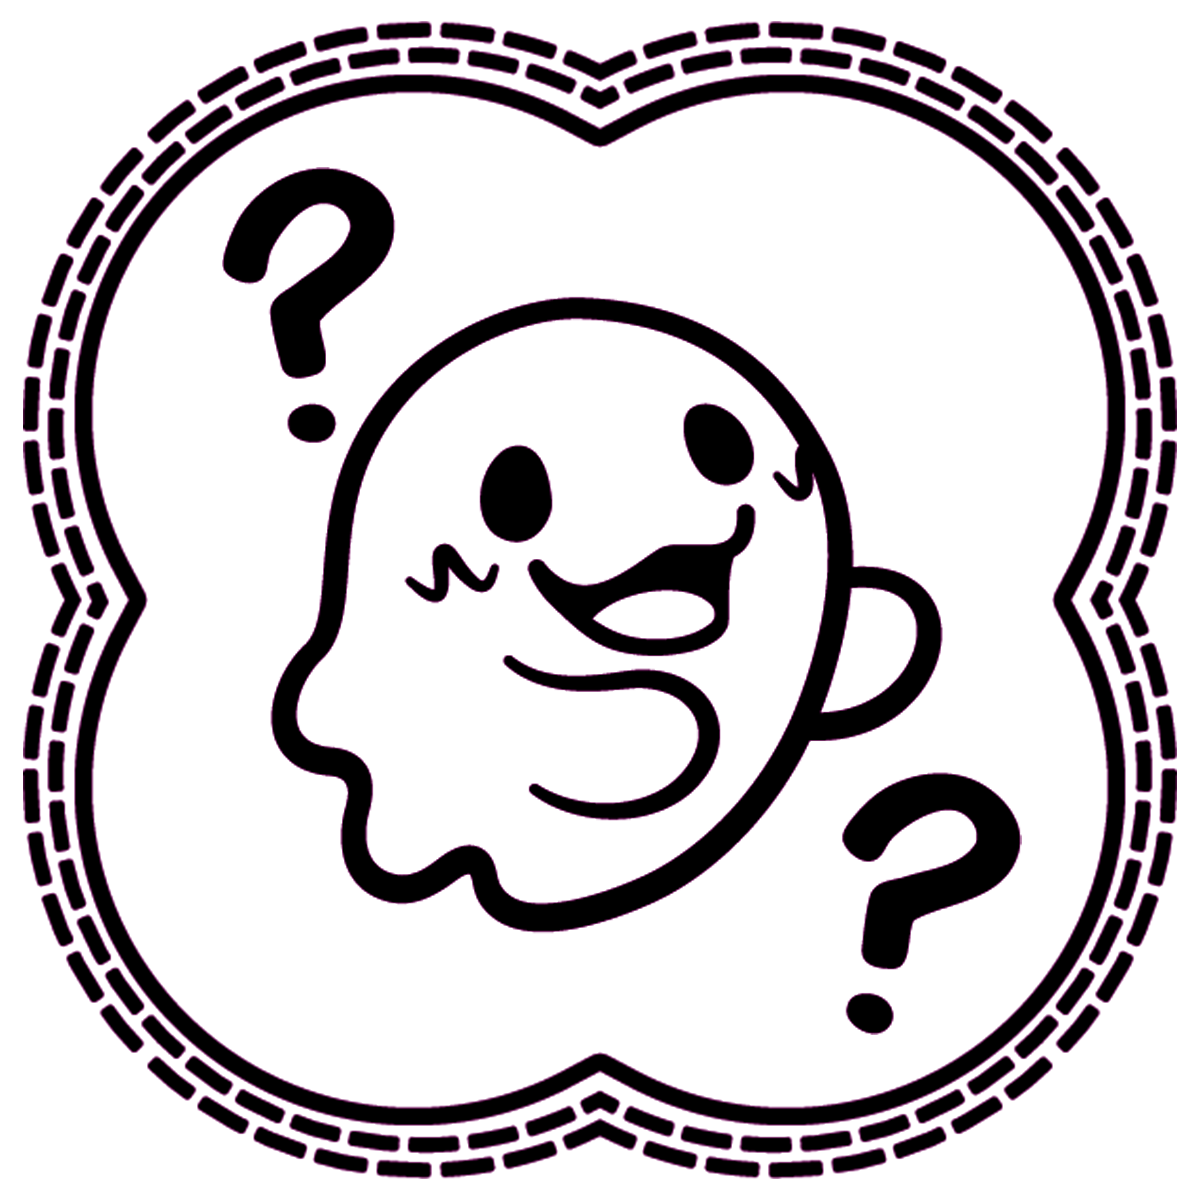
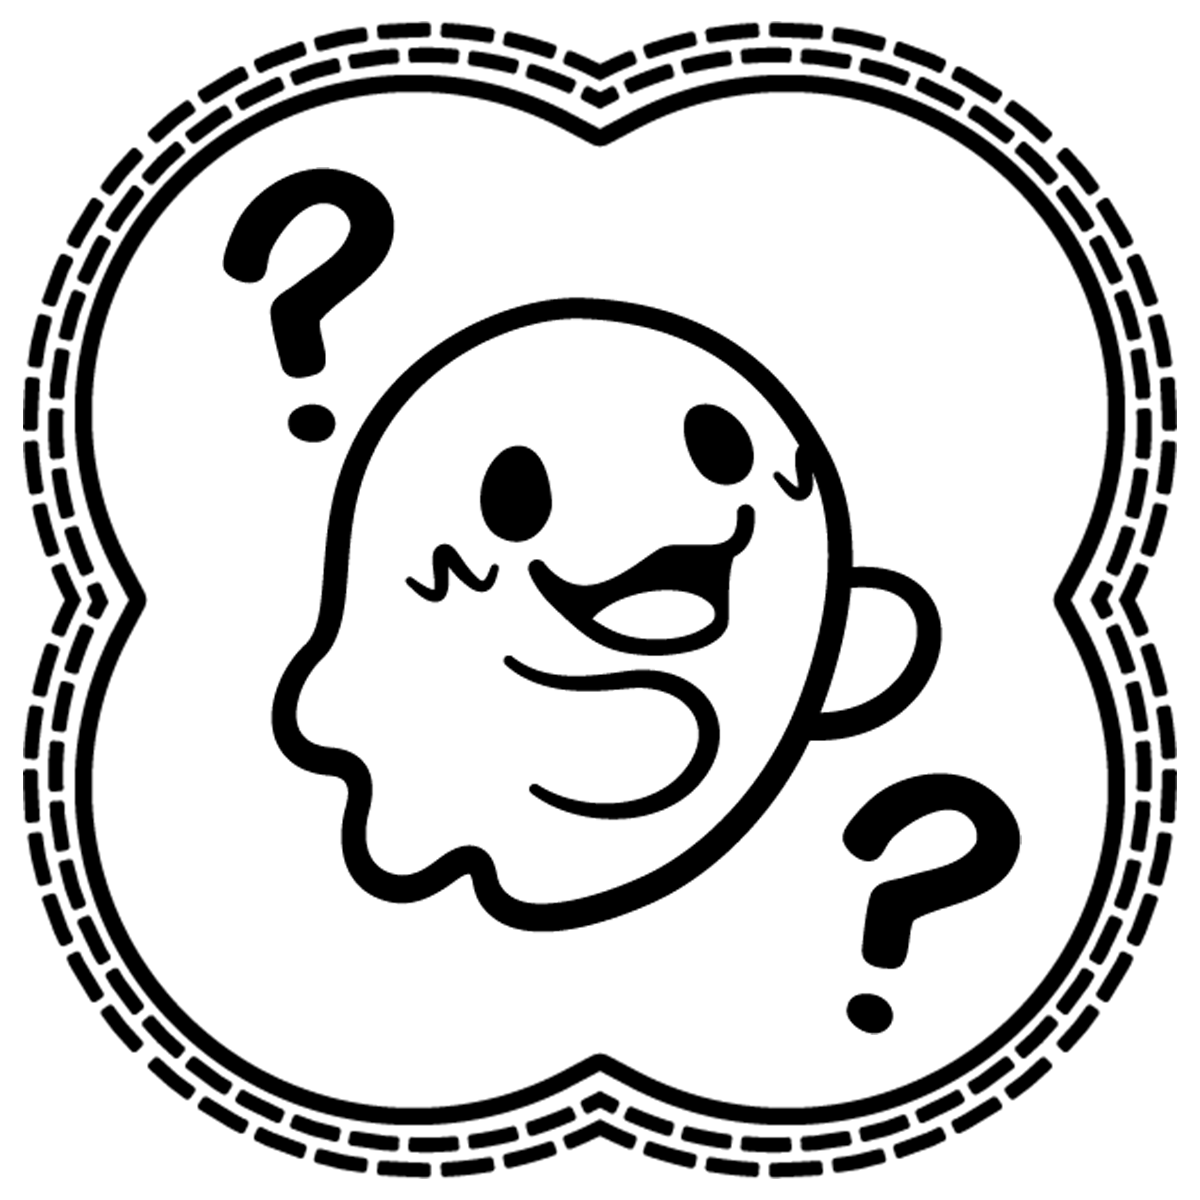
up to 20 ghost prints

diff --git a/assets/prints.js b/assets/prints.js
@@ -21,4 +21,202 @@ ghostFriends = [
         "attrText": "I loved seeing everyone <b>learning</b> in the Panel Room and School.",
         "auraText": "I tried to help them feel more <b>confident</b> about being little."
     },
+    {
+        "key": "3",
+        "print": "print-03.png",
+        "ghost": "ash-black-2.png",
+        "bgClass": "bg-secondary",
+        "attr": "Surprise",
+        "aura": "Satisfaction",
+        "affi": "Patient",
+        "attrText": "I loved watching kiddos use the Gachapon machines and be so <b>surprised</b>!",
+        "auraText": "I used my magic to help them be <b>satisfied</b> with whatever was inside."
+    },
+    {
+        "key": "4",
+        "print": "print-04.png",
+        "ghost": "ash-red-1.png",
+        "bgClass": "bg-secondary",
+        "attr": "Cameras",
+        "aura": "Imagination",
+        "affi": "Creative",
+        "attrText": "I loved watching kiddos pose for the <b>cameras</b> in the Portrait Corner!",
+        "auraText": "My aura helped them <b>pretend</b> to be in imaginary scenes."
+    },
+    {
+        "key": "5",
+        "print": "print-05.png",
+        "ghost": "ash-purple-1.png",
+        "bgClass": "bg-secondary",
+        "attr": "Cameras",
+        "aura": "Imagination",
+        "affi": "Adventurous",
+        "attrText": "I loved watching kiddos get all dressed up for their <b>photoshoots</b>!",
+        "auraText": "My magic helped them slip into <b>littlespace</b> to be totally in the moment."
+    },
+    {
+        "key": "6",
+        "print": "print-06.png",
+        "ghost": "ash-orange-1.png",
+        "bgClass": "bg-secondary",
+        "attr": "Laughter",
+        "aura": "Focus",
+        "affi": "Brave",
+        "attrText": "I loved hearing the <b>laughter</b> from everyone having a good time all over!",
+        "auraText": "My magic helped them <b>focus</b> on being in the moment."
+    },
+    {
+        "key": "7",
+        "print": "print-07.png",
+        "ghost": "ash-blue-1.png",
+        "bgClass": "bg-secondary",
+        "attr": "Laughter",
+        "aura": "Focus",
+        "affi": "Kind",
+        "attrText": "I loved hearing the <b>laughter</b> from everyone having a good time all over!",
+        "auraText": "My aura helped them be <b>kind</b> to those who were struggling to engage."
+    },
+    {
+        "key": "8",
+        "print": "print-08.png",
+        "ghost": "ash-blue-2.png",
+        "bgClass": "bg-secondary",
+        "attr": "Aid",
+        "aura": "Curiosity",
+        "affi": "Kind",
+        "attrText": "I was touched anytime I saw someone coming to the <b>Aid</b> of another.",
+        "auraText": "My presence helped them be <b>curios</b> about one another's needs."
+    },
+    {
+        "key": "9",
+        "print": "print-09.png",
+        "ghost": "ash-brown-1.png",
+        "bgClass": "bg-secondary",
+        "attr": "Aid",
+        "aura": "Curiosity",
+        "affi": "Silly",
+        "attrText": "I was touched anytime I saw someone coming to the <b>Aid</b> of another.",
+        "auraText": "My presence helped them be <b>curios</b> about one another's needs."
+    },
+    {
+        "key": "10",
+        "print": "print-10.png",
+        "ghost": "ash-royalblue-1.png",
+        "bgClass": "bg-secondary",
+        "attr": "Music",
+        "aura": "Gratitude",
+        "affi": "Kind",
+        "attrText": "I loved hearing all the awesome mixes and <b>music</b> played at the festival!",
+        "auraText": "I helped let others feel more <b>grateful</b> for those that give their time to make this all a reality."
+    },
+    {
+        "key": "11",
+        "print": "print-11.png",
+        "ghost": "ash-yellow-1.png",
+        "bgClass": "bg-secondary",
+        "attr": "Music",
+        "aura": "Gratitude",
+        "affi": "Practical",
+        "attrText": "I loved hearing all the awesome mixes and <b>music</b> played at the festival!",
+        "auraText": "I helped let others feel more <b>grateful</b> for those that give their time to make this all a reality."
+    },
+    {
+        "key": "12",
+        "print": "print-12.png",
+        "ghost": "ash-teal-1.png",
+        "bgClass": "bg-secondary",
+        "attr": "Shopping",
+        "aura": "Satisfaction",
+        "affi": "Kind",
+        "attrText": "I loved watching so many kiddos <b>supporting</b> the vendors and the Con Store.",
+        "auraText": "I hope my magic helped them feel <b>satisfied</b> with their purchases and supporting the community."
+    },
+    {
+        "key": "13",
+        "print": "print-13.png",
+        "ghost": "ash-darkpurple-1.png",
+        "bgClass": "bg-secondary",
+        "attr": "Shopping",
+        "aura": "Satisfaction",
+        "affi": "Adventurous",
+        "attrText": "I loved watching so many kiddos <b>supporting</b> the vendors and the Con Store.",
+        "auraText": "I hope my magic helped them feel <b>satisfied</b> with their purchases and supporting the community."
+    },
+    {
+        "key": "14",
+        "print": "print-14.png",
+        "ghost": "ash-white-2.png",
+        "bgClass": "bg-secondary",
+        "attr": "Scents",
+        "aura": "Gratitude",
+        "affi": "Adventurous",
+        "attrText": "So many <b>smells</b> at this event! Some amazing, some disgusting, all interesting!",
+        "auraText": "My aurea helped kiddos feel <b>grateful</b> for the opportunity to experience such a cool event."
+    },
+    {
+        "key": "15",
+        "print": "print-15.png",
+        "ghost": "ash-darkred-1.png",
+        "bgClass": "bg-secondary",
+        "attr": "Scents",
+        "aura": "Gratitude",
+        "affi": "Creative",
+        "attrText": "So many <b>smells</b> at this event! Some amazing, some disgusting, all interesting!",
+        "auraText": "My aurea helped kiddos feel <b>grateful</b> for the opportunity to experience such a cool event."
+    },
+    {
+        "key": "16",
+        "print": "print-16.png",
+        "ghost": "ash-white-1.png",
+        "bgClass": "bg-secondary",
+        "attr": "Scents",
+        "aura": "Confidence",
+        "affi": "Patient",
+        "attrText": "As a <b>scent</b> connoisseur, I can honestly say this event has the best! And worst!",
+        "auraText": "My magic helped kiddos feel <b>grateful</b> for all the sensations they got to experience."
+    },
+    {
+        "key": "17",
+        "print": "print-17.png",
+        "ghost": "ash-brown-1.png",
+        "bgClass": "bg-secondary",
+        "attr": "Shopping",
+        "aura": "Clarity",
+        "affi": "Silly",
+        "attrText": "As a <b>scent</b> connoisseur, I can honestly say this event has the best! And worst!",
+        "auraText": "My magic helped kiddos feel <b>grateful</b> for all the sensations they got to experience."
+    },
+    {
+        "key": "18",
+        "print": "print-18.png",
+        "ghost": "ash-orange-1.png",
+        "bgClass": "bg-secondary",
+        "attr": "Aid",
+        "aura": "Comfort",
+        "affi": "Brave",
+        "attrText": "I was touched any time I saw someone coming to the <b>Aid</b> of another.",
+        "auraText": "My presence helped kiddos feel <b>comfortable</b> as their problem was tended to."
+    },
+    {
+        "key": "19",
+        "print": "print-19.png",
+        "ghost": "ash-green-1.png",
+        "bgClass": "bg-secondary",
+        "attr": "Aid",
+        "aura": "Clarity",
+        "affi": "Practical",
+        "attrText": "I was touched any time I saw someone coming to the <b>Aid</b> of another.",
+        "auraText": "My magic helped them feel <b>clarity</b> about what really matters: taking care of each other."
+    },
+    {
+        "key": "20",
+        "print": "print-20.png",
+        "ghost": "ash-teal-1.png",
+        "bgClass": "bg-secondary",
+        "attr": "Cameras",
+        "aura": "Comfort",
+        "affi": "Practical",
+        "attrText": "I loved watching kiddos get their <b>pictures</b> taken!",
+        "auraText": "My magic helped kiddos feel <b>comfortable</b> when being directed by the photographers."
+    },
 ]
